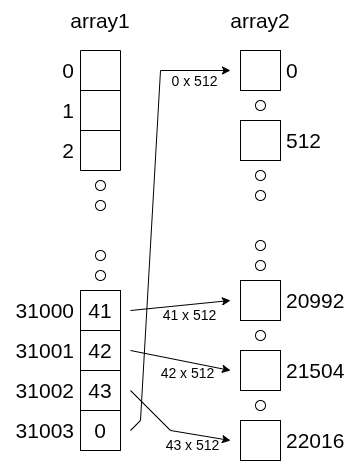
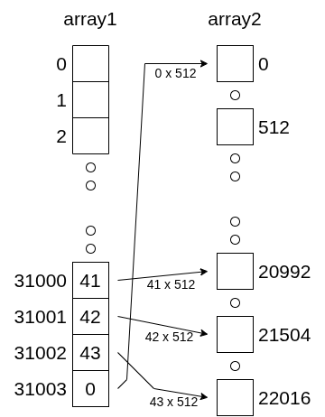
rework Spectre

diff --git a/document/Spectre.tex b/document/Spectre.tex
@@ -1,12 +1,12 @@
 \section{Spectre}
 \label{sec:spectre}
 Spectre wurde von verschiedenen Forschenden entdeckt und am 3.~Januar~2018 veröffentlicht~\cite{kocher2018spectre}.
-Hardwarehersteller wie Intel und AMD als auch Softwarehersteller wie Microsoft wurden bereits am 1.~Juni 2017 informiert, um die Lücke im Voraus durch Softwareupdates zu schließen. \\
+Hardwarehersteller wie Intel und AMD sowie Softwarehersteller wie Microsoft wurden bereits am 1.~Juni~2017 informiert, um die Sicherheitslücke im Voraus durch Softwareupdates zu schließen. \\
 Spectre ist ein Angriff, der Daten über einen Cache-Side-Channel ausliest.
-Bei Side-Channels handelt es sich um indirekte Informationen, die über ein System gewonnen werden können, wie beispielsweise der Stromverbrauch der CPU, Elektromagnetische Strahlung, Zeitmessungen oder sogar Geräusche.
-Spectre analysiert die Zugriffszeiten auf Daten, um zu bestimmen, ob diese aus dem Arbeitsspeicher geladen werden mussten, was mehrere 100 Zyklen dauert, oder durch vorherige Zugriffe bereits in den Cache geladen wurden, was weniger als 10 Zyklen dauert.
+Side-Channels sind indirekte Informationen, die über ein System gewonnen werden können, wie beispielsweise der Stromverbrauch der CPU, elektromagnetische Strahlung, Zeitmessungen oder sogar Geräusche.
+Spectre analysiert die Zugriffszeiten auf Daten, um zu bestimmen, ob diese aus dem Arbeitsspeicher geladen werden mussten, was mehrere Hundert Zyklen dauert, oder ob sie durch vorherige Zugriffe bereits im Cache vorhanden sind, was weniger als zehn Zyklen benötigt.
 Um diese Daten in den Cache zu laden, nutzt Spectre die spekulative Ausführung von Befehlen, um Daten zu laden, die eigentlich nicht geladen werden dürften.
-Die spekulative Ausführung ermöglicht das Laden dieser Daten, da die Überprüfung, ob der Zugriff auf diese Daten überhaupt legitim ist, erst zur \enquote{tatsächlichen} und nicht spekulativen Ausführung erfolgt.
+Die spekulative Ausführung ermöglicht das Laden dieser Daten, da die Überprüfung, ob der Zugriff auf diese Daten überhaupt legitim ist, erst bei der \enquote{tatsächlichen} und nicht spekulativen Ausführung erfolgt.
 
 \subsection{Vorgehensweise}
 \label{subsec:spectre_vorgehensweise}
@@ -23,7 +23,6 @@ Die spekulative Ausführung ermöglicht das Laden dieser Daten, da die Überprü
 		      \phantomsection\label{itm:spectre_step3_code}
 		      \texttt{array2[array1[x] * 512]} \\
 		      Dieser Aufruf nutzt den Wert, der sich in array1 an der Stelle x befindet (multipliziert mit 512), um auf einen Wert in array2 zuzugreifen.
-		      Der Wert, welcher sich tatsächlich in array2 befindet, ist hier irrelevant.
 		      Ein solcher Aufruf mit dem Wert \texttt{x=2} hätte zur Folge, dass der Wert an der Stelle \texttt{array2[array[2] * 512]} in den Cache geladen wird.
 		      Befindet sich an der Stelle \texttt{array1[2]} der Wert \texttt{42}, wird so der Teil des \texttt{arrays2} and der Stelle \texttt{array2[42 * 512]} in den Cache geladen.
 	\end{itemize}
@@ -31,73 +30,70 @@ Die spekulative Ausführung ermöglicht das Laden dieser Daten, da die Überprü
 \hfill
 \begin{minipage}{0.4\textwidth}
 	\centering
-	\includegraphics[width=\linewidth]{Attack-2}
+	\includegraphics[width=\linewidth]{Attack}
 \end{minipage}
 
 \begin{itemize}
-	\item[\textbf{4.}]\phantomsection\label{itm:spectre_step4} Die oben genannte Zeile wird mehrmals in einer Schleife ausgeführt, um den Branch Predictor zu trainieren.
-	      Hierbei werden \texttt{x} Werte verwendet, die innerhalb des \texttt{arrays1} liegen.
-	      Dies lässt die CPU vermuten, dass zukünftige Durchläufe der Schleife ebenfalls diesen Aufruf ausführen werden, was zur Folge hat, dass für zukünftige \texttt{x} Werte der Aufruf bereits im Voraus spekulativ ausgeführt wird.
-	\item[\textbf{5.}] Der Wert \texttt{x} wird auf einen Wert gesetzt, der sich nicht im \texttt{array1} befindet.
-	      Dieser Wert entspricht dem Abstand zwischen dem \texttt{array1} und einem Bereich im Arbeitsspeicher, der versucht wird mit diesem Exploit auszulesen.
-	      Die CPU führt durch das vorherige Training den spekulativen Zugriff auf \texttt{array1} aus, obwohl der Wert \texttt{x} nicht im \texttt{array1} vorhanden ist.
-	      Beispielsweise könnte \texttt{x=31000} gesetzt werden, was zur Folge hat, dass der Wert, der sich in \texttt{array1} an der Stelle \texttt{31000} befinden würde, geladen wird (In C entspricht der Zugriff mit \texttt{array[x]} der Startadresse von \texttt{array} + \texttt{x} * Größe des Datentyps).
-	      Da \texttt{array1} jedoch nur 16 Elemente lang ist, befinden sich an dieser Stelle andere Werte (die wir spekulativ auslesen wollen).
-	      Der Wert, welcher sich an dieser Stelle befindet und sich im Bereich von 0 bis 255 befindet, wird nun mit dem Wert \texttt{512} multipliziert und verwendet, um auf ein Element in \texttt{array2} zuzugreifen.
-	      Dieser Zugriff hat keinen direkten Nutzen, da sich in \texttt{array2} keine relevanten Werte befinden.
-	      Er bewirkt jedoch, dass der entsprechende Wert sowie die nachfolgenden Elemente von \texttt{array2} in den Cache geladen werden.
-	      Die Abstände von 512 Bytes sind so gewählt, um sicherzustellen, dass erkennbar bleibt, welcher Wert in den Cache geladen wurde.
-	      Der Abstand von 512 Bytes bedeutet, dass der Wert \texttt{0} im \texttt{array2} an der Stelle \texttt{0}, der Wert \texttt{1} an der Stelle \texttt{512}, der Wert \texttt{2} an der Stelle \texttt{1024} usw.~liegt.
-	      Dieser Abstand wurde bewusst gewählt, um zu verhindern, dass mehrere Werte gleichzeitig in den Cache geladen werden, falls beispielsweise der Wert \texttt{0} den Index \texttt{0} und der Wert \texttt{1} den Index \texttt{1} hätte.
-	      Durch die großen Abstände bleibt eindeutig, welcher Wert tatsächlich in den Cache geladen wurde.
-	\item[\textbf{6.}] Durch eine spezielle Abbruchbedingung, welche prüft, ob \texttt{x} innerhalb des \texttt{arrays1} liegt, wird verhindert, dass der Zugriff auf \texttt{array1[x]} tatsächlich ausgeführt wird, um einen Segmentation Fault zu verhindern.
-	      Die spekulative Ausführung hat diese Abbruchbedingung auch für \texttt{x} Werte außerhalb des \texttt{array1} ignoriert, da sie in vergangenen Durchläufen bereits zu keinem Abbruch geführt hat.
-	      Dies sorgt dafür, dass die spekulative Ausführung des Zugriffs auf \texttt{array1} verworfen wird und es somit auch nicht mehr möglich ist, den Wert, der sich an dieser Stelle befunden hat, im weiteren Verlauf des Programms zu verwenden.
+	\item[\textbf{4.}]\phantomsection\label{itm:spectre_step4} Die oben gezeigte Zeile wird mehrfach in einer Schleife ausgeführt, um den Branch Predictor zu trainieren.
+	      Dabei werden \texttt{x}-Werte verwendet, die innerhalb des \texttt{array1} liegen.
+	      Dies führt dazu, dass die CPU annimmt, zukünftige Durchläufe der Schleife würden denselben Aufruf ausführen,
+	      was zur Folge hat, dass dieser für zukünftige \texttt{x} Werte bereits im Voraus spekulativ ausgeführt wird.
+	\item[\textbf{5.}] Der Wert \texttt{x} wird nun auf einen Index gesetzt, der außerhalb des \texttt{array1} liegt.
+	      Dieser Index entspricht dem Abstand zwischen \texttt{array1} und einem Speicherbereich, der durch den Exploit ausgelesen werden soll.
+	      Durch das vorherige Training führt die CPU einen spekulativen Zugriff auf \texttt{array1} aus, obwohl der Wert \texttt{x} außerhalb des \texttt{array1} liegt.
+	      Beispielsweise könnte \texttt{x=31000} gesetzt werden, was dazu führt, dass die CPU spekulativ auf die Adresse \texttt{array1 + 31000} zugreift.
+	      Da \texttt{array1} jedoch nur 16 Elemente enthält, liegt diese Adresse außerhalb des gültigen Adressbereichs und verweist stattdessen auf einen anderen Speicherbereich.
+	      Der Wert des Bytes an dieser Adresse wird mit 512 multipliziert und verwendet, um auf ein Element in \texttt{array2} zuzugreifen.
+	      Dieser Zugriff hat keinen direkten Nutzen, da \texttt{array2} keine relevanten Daten enthält.
+	      Er bewirkt jedoch, dass der entsprechende Wert sowie einige nachfolgende Elemente von \texttt{array2} in den Cache geladen werden.
+	      Die Abstände von 512 Bytes zwischen den Elementen in \texttt{array2} sorgen dafür, dass nur ein einzelner Wert in den Cache geladen wird.
+	\item[\textbf{6.}] Eine spezielle Abbruchbedingung prüft, ob \texttt{x} innerhalb des \texttt{array1} liegt, und verhindert so, dass der Zugriff auf \texttt{array1[x]} tatsächlich ausgeführt wird, um einen Segmentation Fault zu vermeiden.
+	      Die spekulative Ausführung ignoriert diese Abbruchbedingung, da sie in vorherigen Durchläufen bereits zu keinem Abbruch geführt hat.
+	      Dadurch wird die spekulative Ausführung des Zugriffs auf \texttt{array1} verworfen, sodass der Wert an dieser Stelle im weiteren Verlauf des Programms nicht mehr verwendet werden kann.
 	\item[\textbf{7.}] Nun werden alle 255 möglichen Werte, die sich an der Stelle \texttt{array1[x]} befinden könnten, nacheinander getestet.
-	      Hierfür wird in einer Schleife gemessen wie lange ein Zugriff auf das Element \texttt{array2[i * 512]} dauert.
+	      Hierfür wird in einer Schleife gemessen, wie lange ein Zugriff auf das Element \texttt{array2[i * 512]} dauert.
 	      Falls sich an der Stelle \texttt{array1[x]} z.B.~der Wert \texttt{4} befunden hat, würde dies bedeuten, dass die spekulative Ausführung das Element \texttt{array2[4 * 512]} in den Cache geladen hat.
-	      Wird nun gemessen, dass der Zugriff auf \texttt{array2[4 * 512]} deutlich schneller ist als der Zugriff auf andere Elemente wie \texttt{array2[0 * 512]} oder \texttt{array2[5 * 512]} so kann davon ausgegangen werden, dass sich an der Stelle \texttt{array1[x]} der Wert \texttt{4} befunden hat.
-	\item[\textbf{8.}] Der soeben ermittelte Wert wird gespeichert und der \texttt{x} Wert um 255 Bits erhöht.
-	      Dadurch wird der nächste Durchlauf die nächsten 8 Bytes des Zielbereiches auslesen.
+	      Wird nun gemessen, dass der Zugriff auf \texttt{array2[4 * 512]} deutlich schneller ist als der Zugriff auf andere Elemente wie \texttt{array2[0 * 512]} oder \texttt{array2[5 * 512]}, so kann davon ausgegangen werden, dass sich an der Stelle \texttt{array1[x]} der Wert \texttt{4} befunden hat.
+	\item[\textbf{8.}] Der soeben ermittelte Wert wird gespeichert, und der \texttt{x}-Wert um 255 Bytes erhöht.
+	      Dadurch wird im nächsten Durchlauf die nächsten 8 Bytes des Zielbereichs ausgelesen.
 	      Falls die gewünschte Menge an Bytes noch nicht ausgelesen wurde, wird zu \hyperref[itm:spectre_step4]{\underline{Schritt 4}} zurückgekehrt.
 \end{itemize}
 
 \subsection{Spectre-V2}
 \label{subsec:spectre_spectre-v2}
 Die oben beschriebene Variante von Spectre ist nur eine von vielen verschiedenen Varianten und Weiterentwicklungen.
-Die bekannteste Weiterentwicklung ist Spectre-V2~\cite{spec_v2}, die sich gegen den Branch Predictor richtet.
-Seit der ersten Version von Spectre-V2 im Jahr 2018 (SpectreBTB) entstehen kontinuierlich neue Varianten und Abwandlungen, wie z.B. Retbleed~\cite{spec_v2_retbleed} aus dem Jahr 2022 oder Training~Solo~\cite{training_solo} aus dem Jahr 2025. \\
-Wie auch bei Spectre-V1 wird spekulativ Code ausgeführt, welcher daraufhin Daten in den Cache lädt die über Timing-Angriffe ausgelesen werden können.
-Anstatt aber rein auf speculative Ausführung im eigenen Programm zu setzen, wird bei SpectreBTB ausgenutzt, dass der Branch Prediction Buffer (BPB) zwischen Prozessen geteilt wird.
-Dieser Buffer beinhaltet Daten, die für die Vorhersage von Branches verwendet und während der Ausführung von Programmen gesammelt werden.
-Wenn die CPU im Programmablauf auf eine Branch trifft, bei der noch nicht klar ist, wohin diese springen wird, wird der BTB verwendet, um den wahrscheinlichsten Sprung zu bestimmen und die spekulative Ausführung zu ermöglichen. \\
-Um einen Angriff auszuführen, trainieren wird in unserem Programm den BPB so, dass er in der Zukunft Branches vorhersagt, die von uns für Vorteil sind.
-Wenn die CPU nun ein anderes Programm ausführt, in dem sich eine Branch befindet, deren Sprungziel unbekannt ist, wird der BTB verwendet, um den wahrscheinlichsten Sprung zu bestimmen.
-Durch unser Training wird der Branch Predictor jetzt einen Sprung vorhersagen, der im Programm so tatsächlich nie ausgeführt worden wäre.
-Dies ermöglicht es uns, wenn auch nur spekulativ, den Verlauf eines anderen Programmes zu ändern. \\
+Die bekannteste Weiterentwicklung ist Spectre-V2~\cite{spec_v2}, die gezielt den Branch Predictor angreift.
+Seit der ersten Version von Spectre-V2 im Jahr 2018 (SpectreBTB) wurden kontinuierlich neue Varianten und Abwandlungen entwickelt, wie z.B.~Retbleed~\cite{spec_v2_retbleed} aus dem Jahr 2022 oder Training~Solo~\cite{training_solo} aus dem Jahr 2025. \\
+Wie bei Spectre-V1 wird spekulativ Code ausgeführt, der Daten in den Cache lädt, die anschließend über Timing-Angriffe ausgelesen werden können.
+Anstatt jedoch auf die spekulative Ausführung im eigenen Programm zu setzen, nutzt SpectreBTB aus, dass der Branch Prediction Buffer (BPB) zwischen Prozessen geteilt wird.
+Dieser Buffer beinhaltet Daten, die für die Vorhersage von Branches verwendet und während der Programmausführung gesammelt werden.
+Wenn die CPU im Programmablauf auf eine Branch trifft, deren Sprungziel noch unklar ist, wird der BPB verwendet, um den wahrscheinlichsten Sprung zu bestimmen und die spekulative Ausführung zu ermöglichen. \\
+Um einen Angriff auszuführen, wird der BPB in unserem Programm so trainiert, dass er zukünftig Branches vorhersagt, die für uns vorteilhaft sind.
+Wenn die CPU anschließend ein anderes Programm ausführt, in dem sich eine Branch mit unbekanntem Sprungziel befindet, wird der BPB verwendet, um den wahrscheinlichsten Sprung zu bestimmen.
+Durch unser Training sagt der Branch Predictor nun einen Sprung voraus, der im Zielprogramm tatsächlich nie ausgeführt worden wäre.
+Dies ermöglicht es uns, wenn auch nur spekulativ, den Ablauf eines anderen Programms zu beeinflussen. \\
 Um Daten in den Cache zu laden, muss zunächst das Zielprogramm analysiert werden, um ein sogenanntes Gadget zu identifizieren.
 Ein Gadget ist ein spezifischer Codeabschnitt, der für den Angriff genutzt werden kann, da er eine bestimmte Funktionalität bereitstellt, die für die spekulative Ausführung ausgenutzt werden kann.
-Dieser Codeabschnitt hat eine spezifische Adresse, die durch Analyse des Programms gefunden werden muss.
+Dieser Codeabschnitt hat eine spezifische Adresse, die durch Analyse des Programms ermittelt werden muss.
 In unserem Fall handelt es sich um einen Codeabschnitt, der dem Zugriff \texttt{array2[array1[x] * 512]} aus \hyperref[itm:spectre_step3_code]{\underline{Schritt 3}} der Spectre-V1-Attacke ähnelt.
 Nach der Identifikation dieses Gadgets wird dessen Adresse verwendet, um den Branch Prediction Buffer (BPB) zu trainieren. \\
-Nun führt das Zielprogramm spekulativ das Gadget aus, um Daten in den Cache zu laden, die anschließend durch Zeitmessungen bestimmt werden können.
+Das Zielprogramm führt anschließend spekulativ das Gadget aus, wodurch Daten in den Cache geladen werden, die durch Zeitmessungen ausgelesen werden können.
 
 \subsection{Gegenmaßnahmen}
 \label{subsec:spectre_gegenmassnahmen}
-Gegenmaßnahmen gegen Spectre-V2 wurden auf verschiedenen Ebenen implementiert, wobei unter anderem zahlreiche Software-Patches veröffentlicht wurden.
-So wurden im Linux Kernel verschiedene Maßnahmen implementiert, um zu verhindern, dass verschiedene sensitive Funktionen spekulativ ausgeführt werden können~\cite{linux_nospec}.
-Dies verhindert, dass der Branch Predictor durch Manipulation innerhalb des Kernels durch spekulative Ausführung Daten leaken kann.
-So kann die Funktion \texttt{array\_index\_nospec} genutzt werden, um trotz spekulativer Ausführung Zugriffe auf die Bereiche von arrays zu begrenzen.
-Diese muss allerdings manuell in den Code eingefügt werden und ist nicht automatisiert implementiert.
-Des Weiteren wurden auch verschiedene Maßnahmen in den Browsern implementiert, um zu verhindern, dass Spectre-V2 Angriffe über JavaScript ausgeführt werden können.
-So wurde in Firefox und Webkit die Genauigkeit von Zeitmessungen reduziert, um zu verhindern, dass Angreifer den Cache-Zugriff über Timing-Angriffe auslesen können (\texttt{performance.now()} wurde auf Genauigkeit von 20µs reduziert~\cite{luke_wagner_2018}).
-Chrome hingegen hat die Sandbox-Funktionalität erweitert und ermöglicht es Websites in separaten Prozessen laufen zu lassen
-~\cite{heise_2018_spec}.\\
-Des Weiteren wurden von verschiedenen Hardwareherstellern wie Intel und AMD Updates für den Microcode veröffentlicht, um Sicherheitslücken wie Spectre und Meltdown zu schließen. \\
-Microcode ist eine spezielle, niedrigstufige Software, die direkt auf der CPU ausgeführt wird und die Assembly-Befehle sowie komplexe Instruktionen in einfache Hardware-Steuersignale übersetzt.
-Sie ermöglicht es, bestimmte Funktionen der Hardware zu ändern oder zu erweitern, ohne physische Änderungen an der Hardware vorzunehmen. \\
-Im Fall von Intel wurde IBRS (Indirection Branch Restricted Speculation~\cite{intel_1}), IBPB (Indirect Branch Predictor Barrier~\cite{intel_2}) und STIBP (Single Thread Indirect Branch Predictors~\cite{intel_3}) implementiert.
-Diese Maßnahmen verhindern, dass der Branch Predictor zwischen logischen Prozessoren der CPU, oder Prozessen unterschiedlicher Privilegien geteilt wird.
-Dass diese Gegenmaßnahmen nicht immer ausreichen, zeigt Training Solo~\cite{training_solo}, welches diese Schutzmaßnahmen umgeht, indem das Trainieren des BTB nicht im einen Programm erfolgt, sondern direkt im Kernel.
+Gegenmaßnahmen gegen Spectre-V2 wurden auf verschiedenen Ebenen implementiert, wobei zahlreiche Software-Patches veröffentlicht wurden.
+Im Linux-Kernel wurden verschiedene Maßnahmen eingeführt, um zu verhindern, dass sensitive Funktionen spekulativ ausgeführt werden~\cite{linux_nospec}.
+Dies verhindert, dass der Branch Predictor durch Manipulation innerhalb des Kernels Daten über spekulative Ausführung leaken kann.
+Die Funktion \texttt{array\_index\_nospec} kann verwendet werden, um trotz spekulativer Ausführung Zugriffe auf die Bereiche von Arrays zu begrenzen.
+Diese Funktion muss jedoch manuell in den Code eingefügt werden und ist nicht automatisiert implementiert.
+Darüber hinaus wurden verschiedene Maßnahmen in Browsern implementiert, um Spectre-V2-Angriffe über JavaScript zu verhindern.
+In Firefox und Webkit wurde die Genauigkeit von Zeitmessungen reduziert, um zu verhindern, dass Angreifer den Cache-Zugriff über Timing-Angriffe auslesen können (\texttt{performance.now()} wurde auf eine Genauigkeit von 20µs reduziert~\cite{luke_wagner_2018}).
+Chrome hat die Sandbox-Funktionalität erweitert, sodass Websites in separaten Prozessen ausgeführt werden können~\cite{heise_2018_spec}.
+Des Weiteren haben Hardwarehersteller wie Intel und AMD Microcode-Updates veröffentlicht, um Sicherheitslücken wie Spectre und Meltdown zu schließen. \\
+Microcode ist eine spezielle, niedrigstufige Software, die direkt auf der CPU ausgeführt wird und Assembly-Befehle sowie komplexe Instruktionen in einfache Hardware-Steuersignale übersetzt.
+Er ermöglicht es, bestimmte Funktionen der Hardware zu ändern oder zu erweitern, ohne physische Änderungen an der Hardware vorzunehmen. \\
+Im Fall von Intel wurden Maßnahmen wie IBRS (Indirection Branch Restricted Speculation~\cite{intel_1}), IBPB (Indirect Branch Predictor Barrier~\cite{intel_2}) und STIBP (Single Thread Indirect Branch Predictors~\cite{intel_3}) implementiert.
+Diese Mechanismen verhindern, dass der Branch Predictor zwischen logischen Prozessoren der CPU oder Prozessen unterschiedlicher Privilegien geteilt wird.
+Dass diese Gegenmaßnahmen nicht immer ausreichen, zeigt Training Solo~\cite{training_solo}, eine Technik, die diese Schutzmaßnahmen umgeht, indem das Trainieren des BTB direkt im Kernel erfolgt.
 Somit sind Schutzmaßnahmen wie \textit{IBRS} nicht mehr wirksam, da das Training des BTB von einem privilegierten Prozess ausgeführt wird.
-Intel hat hierfür bereits über Microcode-Updates reagiert und die Instruktion \textit{IBHF}~\cite{darkcrizt_2025} hinzugefügt.
+Intel hat bereits reagiert und über Microcode-Updates die Instruktion \textit{IBHF}~\cite{darkcrizt_2025} hinzugefügt.
